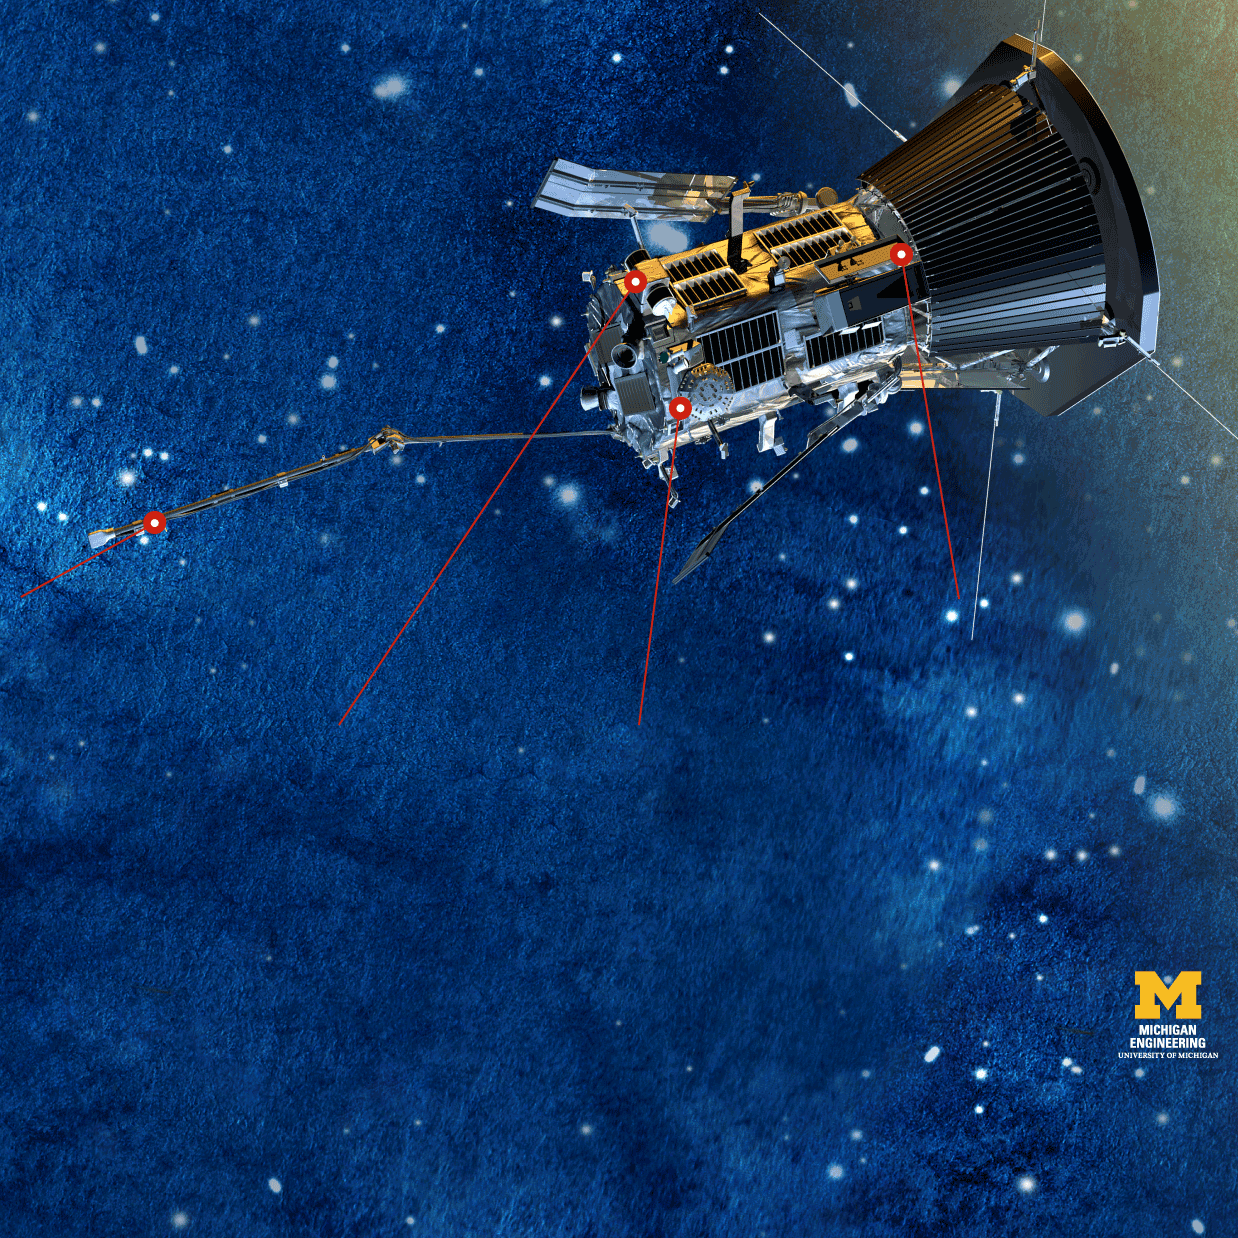
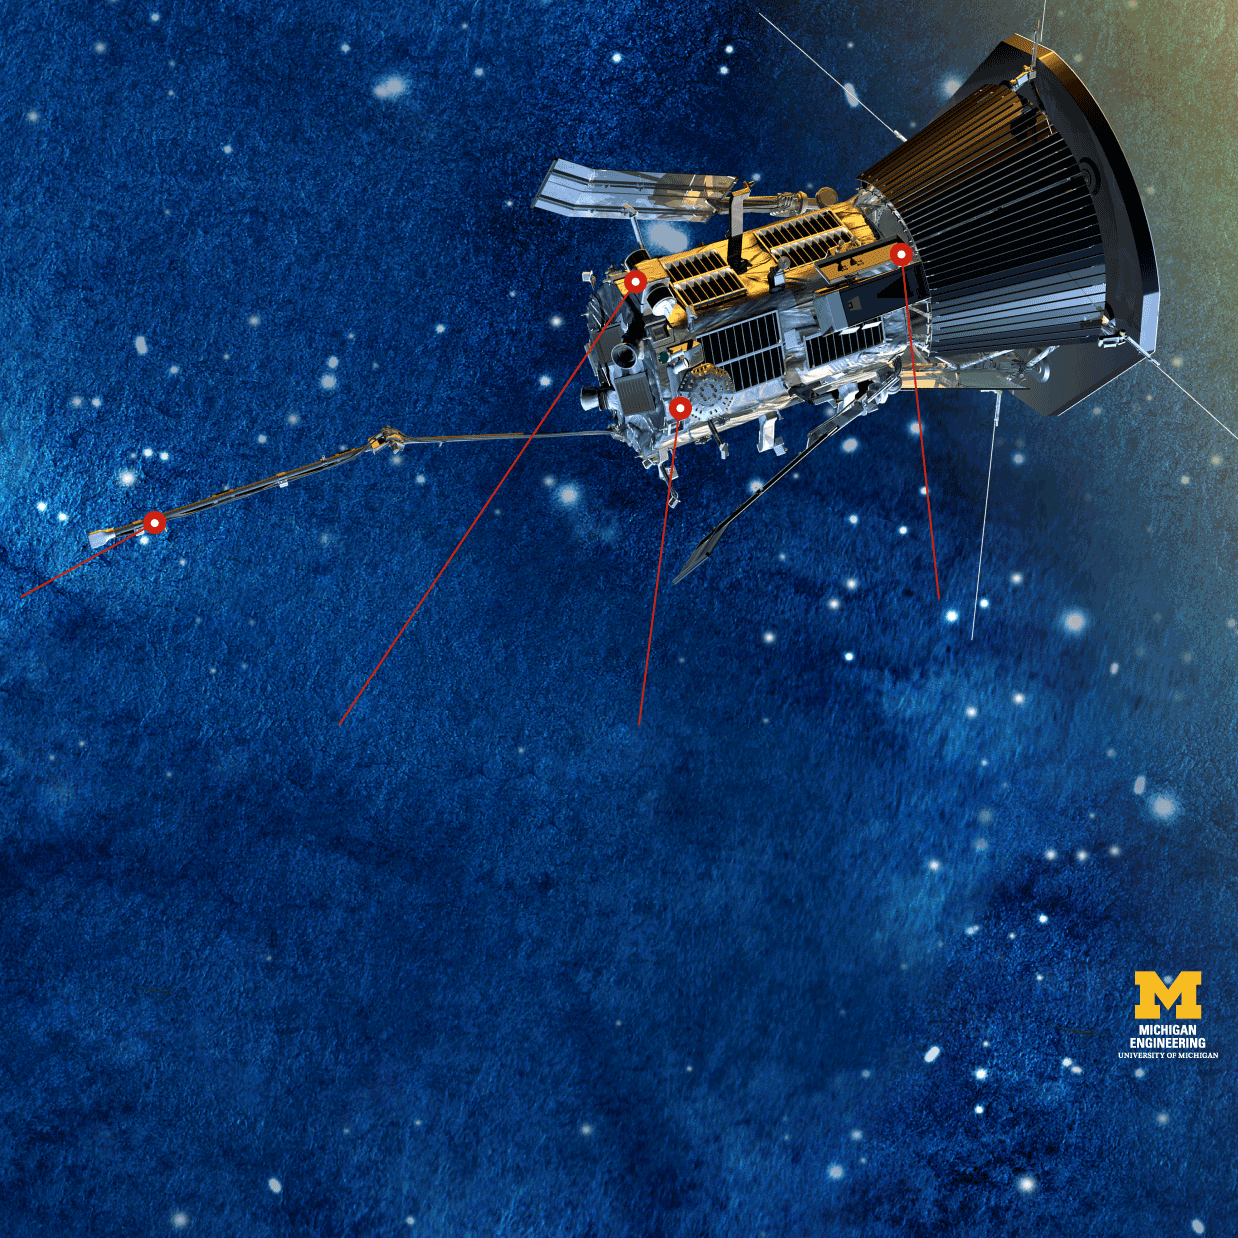
resolve error on med01

diff --git a/ai2html/parker-probe/ai2html-output_psp-01/index.html b/ai2html/parker-probe/ai2html-output_psp-01/index.html
@@ -20,7 +20,7 @@ p {
 </head>
 <body>
 <div id="coe-psp-01-box" class="ai2html">
-	<!-- Generated by ai2html v0.65.1-coe-customized-v2 - 2018-03-20 - 15:39 -->
+	<!-- Generated by ai2html v0.65.1-coe-customized-v2 - 2018-03-20 - 15:40 -->
 	<!-- ai file: psp-01.ai -->
 
 	<style type='text/css' media='screen,print'>
@@ -208,7 +208,7 @@ p {
 			<p class="coe-pstyle2">FIELDS Experiment</p>
 			<p>Measuring the strength of the magnetic and electric fields in the corona with voltage sensors and magnetometers. It will also gauge the absolute plasma density and electron temperatures.</p>
 		</div>
-		<div id="coe-ai1-4" class="coe-probe coe-aiAbs" style="top:48.9499%;left:77.4552%;width:22.6171%;">
+		<div id="coe-ai1-4" class="coe-probe coe-aiAbs" style="top:48.9499%;left:75.8397%;width:22.6171%;">
 			<p class="coe-pstyle2">Wide-field Imager for </p>
 			<p class="coe-pstyle2">Solar Probe (WISPR)</p>
 			<p>Will be capturing images of the solar wind and plasma in the atmosphere. Will derive the 3D structure of the large-scale corona.</p>
@@ -344,7 +344,7 @@ p {
 			<p>Measuring the strength of the magnetic and electric fields in the corona with voltage sensors and magnetometers. It will also gauge the absolute plasma density and electron temperatures.</p>
 		</div>
 	</div>
-	<!-- End ai2html - 2018-03-20 - 15:39 -->
+	<!-- End ai2html - 2018-03-20 - 15:40 -->
 </div>
 <p class='credit'>Infographic: Michigan Engineering</p>
 <script src='https://cdnjs.cloudflare.com/ajax/libs/iframe-resizer/3.5.16/iframeResizer.contentWindow.min.js'></script>
